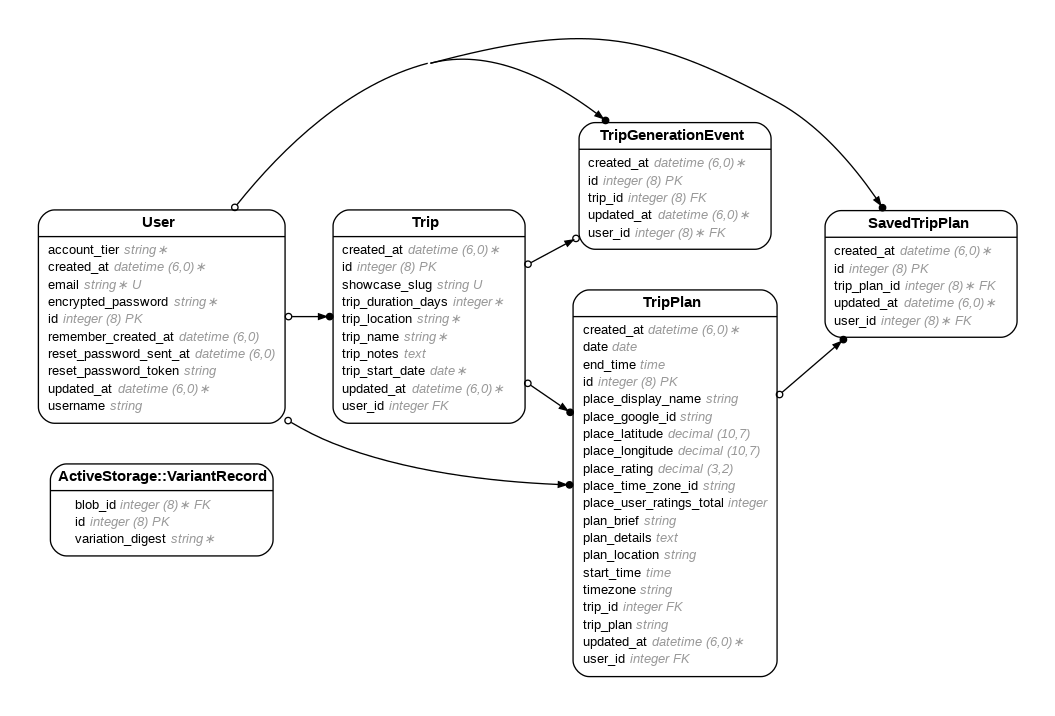
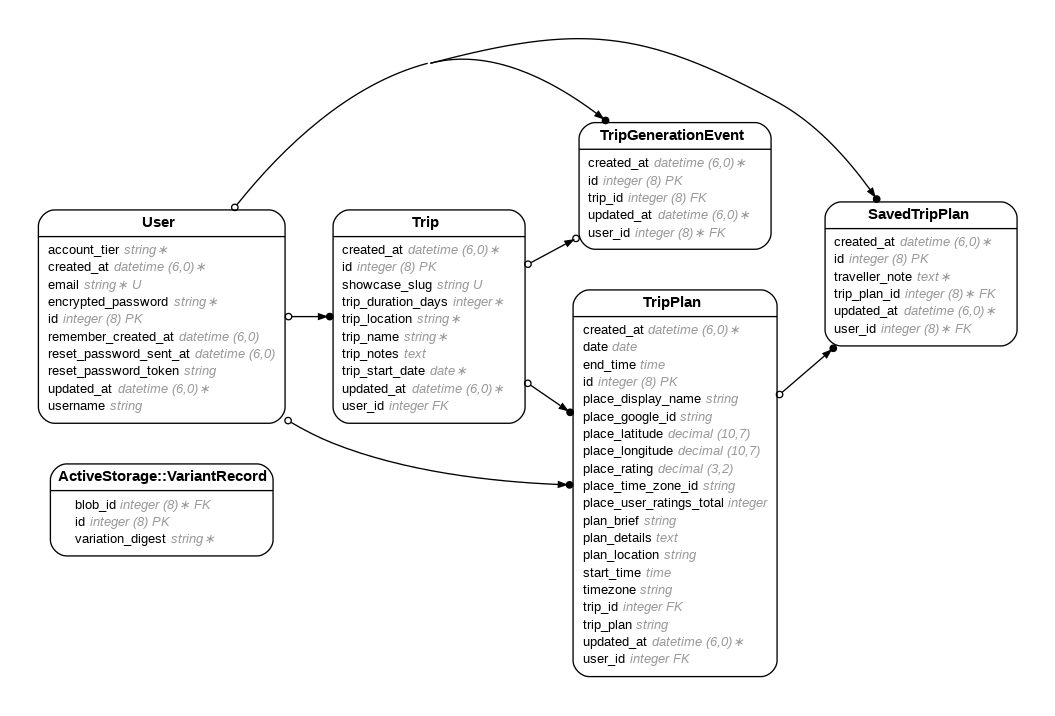
all good

Changed region(s): [[0.7886, 0.2765, 0.9706, 0.4916]]

diff --git a/app/assets/stylesheets/application.css b/app/assets/stylesheets/application.css
@@ -1729,8 +1729,64 @@ nav[aria-label="breadcrumb"] + hr {
   font-size: 0.95rem;
 }
 
-#home-panel-future:has(.trips-empty-welcome) .home-tab-hero,
-#home-panel-future:has(.trips-empty-welcome) article > header {
+#home-panel-future:has(.trips-empty-welcome) .home-tab-hero {
+  display: none;
+}
+
+.home-panel-heading {
+  display: flex;
+  align-items: center;
+  justify-content: space-between;
+  gap: 0.75rem;
+}
+
+.home-panel-heading h2 {
+  margin: 0;
+}
+
+body.pico article .home-panel-heading h2 {
+  margin: 0;
+}
+
+body.pico article button.saved-spots-jump {
+  display: inline-flex;
+  align-items: center;
+  gap: 0.3rem;
+  margin: 0;
+  padding: 0.4rem 0.75rem;
+  min-height: 0;
+  flex-shrink: 0;
+  font-size: 0.875rem;
+  font-weight: 600;
+  line-height: 1.2;
+  color: #be123c;
+  background: #fff;
+  border: 1px solid #fecdd3;
+  border-radius: 9999px;
+  box-shadow: none;
+  white-space: nowrap;
+  cursor: pointer;
+}
+
+body.pico article button.saved-spots-jump:hover {
+  background: #fff1f2;
+  color: #9f1239;
+  border-color: #fda4af;
+}
+
+body.pico article button.saved-spots-jump--active,
+body.pico article button.saved-spots-jump[aria-current="page"] {
+  background: #be123c;
+  border-color: #9f1239;
+  color: #fff;
+}
+
+.saved-spots-jump__heart {
+  font-size: 0.95em;
+  line-height: 1;
+}
+
+#home-panel-future:has(.trips-empty-welcome) article > header h2 {
   display: none;
 }
 
@@ -2129,6 +2185,8 @@ body.pico .trip-notes-section label {
 #trip_notes_box::placeholder {
   color: #5a7a8f;
   opacity: 0.9;
+  font-size: 0.8em;
+  line-height: 1.45;
 }
 
 #trip_notes_box:focus {
@@ -3140,10 +3198,14 @@ body.pico article .saved-spots-list li::marker {
 
 .saved-spot-card {
   position: relative;
+  display: flex;
+  align-items: center;
+  gap: 0.7rem;
   background: #fff;
   border-bottom: 1px solid #ececec;
   border-radius: 0;
   box-shadow: none;
+  padding: 0.85rem 0.35rem 0.85rem 0.15rem;
 }
 
 .saved-spots-list li:last-child .saved-spot-card {
@@ -3151,11 +3213,9 @@ body.pico article .saved-spots-list li::marker {
 }
 
 .saved-spot-card .agenda-save-spot {
-  position: absolute;
-  top: 50%;
-  right: 0.35rem;
-  z-index: 2;
-  transform: translateY(-50%);
+  position: static;
+  flex-shrink: 0;
+  transform: none;
 }
 
 body.pico article .saved-spot-card button.agenda-save-spot {
@@ -3185,9 +3245,68 @@ body.pico article .saved-spot-card button.agenda-save-spot:focus {
 
 .saved-spot-card__main {
   display: block;
-  padding: 0.85rem 2.25rem 0.85rem 0.15rem;
+  flex: 1 1 auto;
+  min-width: 0;
+  padding: 0;
   text-decoration: none;
   color: inherit;
+}
+
+.saved-spot-note__input {
+  display: block;
+  flex: 0 0 13.5rem;
+  width: 13.5rem;
+  height: 4.35rem;
+  min-height: 4.35rem;
+  max-height: 4.35rem;
+  margin: 0;
+  padding: 0.45rem 0.55rem;
+  font-size: 0.8125rem;
+  line-height: 1.4;
+  color: #0f172a;
+  background: #f9fafb;
+  border: 1px solid #e5e7eb;
+  border-radius: 10px;
+  resize: none;
+  box-sizing: border-box;
+}
+
+.saved-spot-note__input::placeholder {
+  color: #9ca3af;
+  font-size: 0.65rem;
+  line-height: 1.4;
+}
+
+body.pico article .saved-spot-note__input {
+  margin: 0;
+  width: 13.5rem;
+  height: 4.35rem;
+  min-height: 4.35rem;
+  max-height: 4.35rem;
+}
+
+.saved-spot-note__input:focus {
+  border-color: #93c5fd;
+  outline: none;
+  background: #fff;
+  box-shadow: 0 0 0 2px rgba(147, 197, 253, 0.35);
+}
+
+@media (max-width: 720px) {
+  .saved-spot-card {
+    flex-wrap: wrap;
+  }
+
+  .saved-spot-card__main {
+    flex: 1 1 calc(100% - 2rem);
+  }
+
+  .saved-spot-note__input,
+  body.pico article .saved-spot-note__input {
+    flex: 1 1 100%;
+    width: 100%;
+    order: 3;
+  }
 }
 
 a.saved-spot-card__main:hover {

diff --git a/app/javascript/application.js b/app/javascript/application.js
@@ -99,6 +99,38 @@ document.addEventListener("change", function (event) {
   })
 })
 
+const savedSpotNoteSaveTimers = new WeakMap()
+
+function scheduleSavedSpotNoteSave(textarea) {
+  const id = textarea.getAttribute("data-trip-plan-id")
+  if (!id) return
+
+  const prev = savedSpotNoteSaveTimers.get(textarea)
+  if (prev) clearTimeout(prev)
+
+  savedSpotNoteSaveTimers.set(
+    textarea,
+    setTimeout(function () {
+      fetch("/saved_spots/" + id, {
+        method: "PATCH",
+        credentials: "same-origin",
+        headers: {
+          Accept: "application/json",
+          "Content-Type": "application/json",
+          "X-Requested-With": "XMLHttpRequest",
+          "X-CSRF-Token": csrfToken()
+        },
+        body: JSON.stringify({ traveller_note: textarea.value })
+      }).catch(function () {})
+    }, 450)
+  )
+}
+
+document.addEventListener("input", function (event) {
+  const textarea = event.target.closest("[data-saved-spot-note]")
+  if (textarea) scheduleSavedSpotNoteSave(textarea)
+})
+
 document.addEventListener("click", function (event) {
   const openPlan = event.target.closest("[data-nalu-open-plan]")
   if (openPlan) {

diff --git a/db/schema.rb b/db/schema.rb
@@ -10,7 +10,7 @@
 #
 # It's strongly recommended that you check this file into your version control system.
 
-ActiveRecord::Schema[8.0].define(version: 2026_10_05_120000) do
+ActiveRecord::Schema[8.0].define(version: 2026_10_05_141000) do
   # These are extensions that must be enabled in order to support this database
   enable_extension "pg_catalog.plpgsql"
 
@@ -47,6 +47,7 @@ ActiveRecord::Schema[8.0].define(version: 2026_10_05_120000) do
     t.bigint "trip_plan_id", null: false
     t.datetime "created_at", null: false
     t.datetime "updated_at", null: false
+    t.text "traveller_note", default: "", null: false
     t.index ["trip_plan_id"], name: "index_saved_trip_plans_on_trip_plan_id"
     t.index ["user_id", "trip_plan_id"], name: "index_saved_trip_plans_on_user_id_and_trip_plan_id", unique: true
     t.index ["user_id"], name: "index_saved_trip_plans_on_user_id"

diff --git a/app/models/saved_trip_plan.rb b/app/models/saved_trip_plan.rb
@@ -4,11 +4,12 @@
 #
 # Table name: saved_trip_plans
 #
-#  id           :bigint           not null, primary key
-#  created_at   :datetime         not null
-#  updated_at   :datetime         not null
-#  trip_plan_id :bigint           not null
-#  user_id      :bigint           not null
+#  id             :bigint           not null, primary key
+#  traveller_note :text             default(""), not null
+#  created_at     :datetime         not null
+#  updated_at     :datetime         not null
+#  trip_plan_id   :bigint           not null
+#  user_id        :bigint           not null
 #
 # Indexes
 #
@@ -26,4 +27,5 @@ class SavedTripPlan < ApplicationRecord
   belongs_to :trip_plan
 
   validates :trip_plan_id, uniqueness: { scope: :user_id }
+  validates :traveller_note, length: { maximum: 10_000 }
 end

diff --git a/app/controllers/saved_spots_controller.rb b/app/controllers/saved_spots_controller.rb
@@ -8,6 +8,13 @@ class SavedSpotsController < ApplicationController
     render json: { saved: true, trip_plan_id: trip_plan.id }
   end
 
+  def update
+    trip_plan = current_user.trip_plans.find(params[:trip_plan_id])
+    saved = current_user.saved_trip_plans.find_by!(trip_plan: trip_plan)
+    saved.update!(traveller_note: params.fetch(:traveller_note, ""))
+    render json: { trip_plan_id: trip_plan.id, traveller_note: saved.traveller_note }
+  end
+
   def destroy
     trip_plan = current_user.trip_plans.find(params[:trip_plan_id])
     current_user.saved_trip_plans.where(trip_plan: trip_plan).delete_all

diff --git a/config/routes.rb b/config/routes.rb
@@ -37,6 +37,7 @@ Rails.application.routes.draw do
   get("/delete_trip/:path_id", { :controller => "trips", :action => "destroy" })
 
   post("/saved_spots/:trip_plan_id", { :controller => "saved_spots", :action => "create" })
+  patch("/saved_spots/:trip_plan_id", { :controller => "saved_spots", :action => "update" })
   delete("/saved_spots/:trip_plan_id", { :controller => "saved_spots", :action => "destroy" })
 
   # ------------------------------

diff --git a/db/migrate/20261005140000_create_traveller_notes.rb b/db/migrate/20261005140000_create_traveller_notes.rb
@@ -1,0 +1,14 @@
+# frozen_string_literal: true
+
+class CreateTravellerNotes < ActiveRecord::Migration[8.0]
+  def change
+    create_table :traveller_notes do |t|
+      t.references :user, null: false, foreign_key: true
+      t.text :body, null: false, default: ""
+
+      t.timestamps
+    end
+
+    add_index :traveller_notes, [:user_id, :created_at]
+  end
+end

diff --git a/app/models/user.rb b/app/models/user.rb
@@ -33,7 +33,6 @@ class User < ApplicationRecord
   has_many  :trip_generation_events, dependent: :destroy
   has_many  :saved_trip_plans, dependent: :destroy
   has_many  :saved_spot_trip_plans, through: :saved_trip_plans, source: :trip_plan
-
   has_one_attached :avatar
 
   ALLOWED_AVATAR_CONTENT_TYPES = %w[image/jpeg image/png image/webp image/gif].freeze

diff --git a/db/migrate/20261005141000_add_traveller_note_to_saved_trip_plans.rb b/db/migrate/20261005141000_add_traveller_note_to_saved_trip_plans.rb
@@ -1,0 +1,8 @@
+# frozen_string_literal: true
+
+class AddTravellerNoteToSavedTripPlans < ActiveRecord::Migration[8.0]
+  def change
+    add_column :saved_trip_plans, :traveller_note, :text, null: false, default: ""
+    drop_table :traveller_notes, if_exists: true
+  end
+end
